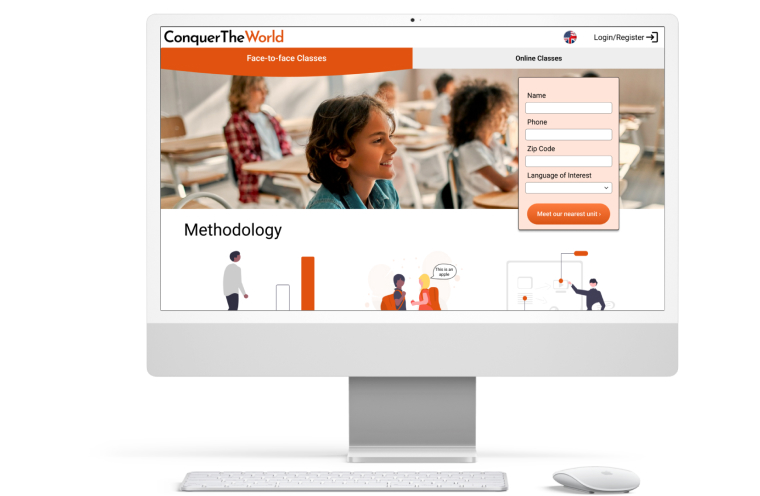
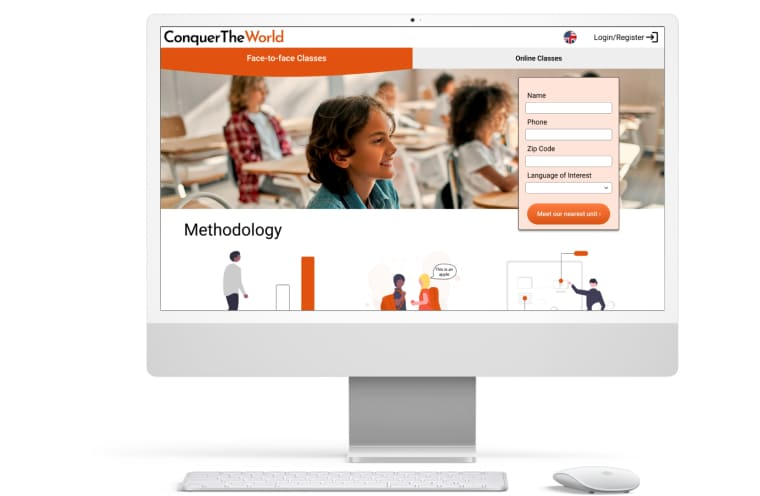
optmized images and updated css

diff --git a/style.min.css b/style.min.css
@@ -1,0 +1,1 @@
+a,abbr,acronym,address,applet,article,aside,audio,b,big,blockquote,body,canvas,caption,center,cite,code,dd,del,details,dfn,div,dl,dt,em,embed,fieldset,figcaption,figure,footer,form,h1,h2,h3,h4,h5,h6,header,hgroup,html,i,iframe,img,ins,kbd,label,legend,li,mark,menu,nav,object,ol,output,p,pre,q,ruby,s,samp,section,small,span,strike,strong,sub,summary,sup,table,tbody,td,tfoot,th,thead,time,tr,tt,u,ul,var,video{margin:0;padding:0;border:0;font-size:100%;font:inherit;vertical-align:baseline;text-decoration:none;color:#000}:root{--C1:#ffffff;--C2:#cccccc;--C3:#5b5b5b;--C4:#424242;--C5:#212121;--C6:#000000;--B1:#030423;--B2:#003366;--B3:#0047ab;--DG1:linear-gradient(180deg, #003366 0%, #030423 100%)}html{font-family:Raleway;font-style:normal;font-weight:600;font-size:1rem}h1{font-size:4rem}h2{font-size:2.25rem}.container{max-width:1600px;margin-left:auto;margin-right:auto}nav{display:flex;flex-wrap:wrap;gap:60px;background-color:#036;padding:24px 0 24px 130px;box-shadow:0 4px 4px rgba(0,0,0,.25),0 2px 2px rgba(0,0,0,.5);position:fixed;top:0;width:100%;z-index:100}nav a{display:flex;flex-direction:row;gap:4px;align-items:center;position:relative}nav img{max-width:32px}nav p{color:#fff}.indicator{position:absolute;bottom:0;left:0;width:0;height:2px;background-color:#fff;transition:width .3s ease}@media (max-width:900px){nav{padding-left:0;justify-content:center}}@media (max-width:700px){nav{gap:20px}}.home{background-image:url(../Images/Background\ -\ Home.jpg);background-repeat:no-repeat;display:grid;grid-template-columns:1fr 1fr;grid-template-rows:auto auto auto;background-size:cover;margin-top:120px;margin-bottom:240px;background-clip:border-box;background-position:center}.home h1{background-color:var(--C1);margin:120px 0 20px 130px;padding:15px 40px 15px 0;max-width:fit-content}.home p{font-size:1.5rem;margin-left:130px;grid-column:1}#animated-text{color:var(--B2);white-space:nowrap;overflow:hidden;border-right:2px solid #000;animation:typing-animation 2s steps(40) 1s forwards,deleting-animation 1s steps(40) 4s forwards}.home img{margin-top:80px;margin-right:240px;max-width:460px;grid-column:2;grid-row:1/-1;justify-self:end}@media (max-width:900px){.home{background:0 0;grid-template-columns:auto}.home img{display:none}.home h1{margin-left:0;text-align:center;justify-self:center;padding:15px 20px}.home p{margin-left:0;text-align:center;justify-self:center}}.about{display:grid;grid-template-columns:1fr 2fr;margin-bottom:160px}.about img{max-width:380px;grid-row:2/10}.about h1{text-align:center;grid-column:1/-1;margin-bottom:32px}.about-menu{display:flex;gap:24px;margin-bottom:36px}.about-form label{border-radius:100px;padding:10px 20px;border:2px solid var(--B2);display:inline-block;margin-bottom:36px;cursor:pointer;margin-right:24px}.about-text{display:none}#story:checked+label,#study:checked+label,#work:checked+label{background:var(--DG1);color:var(--C1)}#story:checked~#about-story,#work:checked~#about-work{display:block}#study:checked~#about-study{display:grid;grid-template-columns:1fr 1fr}.about-form input{opacity:0;position:absolute;pointer-events:none}#about-story p{line-height:1.5;max-width:80ch;font-weight:500;margin-bottom:16px}.about a{margin-top:64px;border-radius:100px;padding:10px 20px;background:var(--DG1);color:var(--C1);max-width:fit-content;justify-self:center}h2{font-weight:700;font-size:1.375rem;margin-bottom:12px}.cargo{font-weight:500;font-size:1.25rem;margin-bottom:8px}.skills{list-style:none;display:flex;gap:16px;flex-wrap:wrap}.skills li{font-size:1rem;font-weight:500;color:var(--C1);background:var(--B3);padding:10px 20px;border-radius:100px;text-align:center;margin-bottom:20px}.bot28{margin-bottom:8px}.cursos{list-style:none;font-weight:500;font-size:1.25rem}.cursos li,.cursos p{margin-bottom:20px}.col-1{grid-column:1;grid-row:1/10}.col-2{grid-column:2}.about-text{position:relative}.about-text::before{content:"";display:block;width:100%;max-width:800px;height:1.5px;background-color:var(--B2);box-shadow:0 2px 2px rgba(0,0,0,.5),0 4px 4px rgba(0,0,0,.25);position:absolute;left:0;top:-20px}@media (max-width:1000px){.about img{display:none}.about{display:grid;grid-template-columns:1fr;margin:0 60px}.about-text{margin-bottom:40px}#study:checked~#about-study{display:block}.study-type{margin-top:36px}}@media (max-width:700px){.about h1{font-size:3.5rem}.about-form label:first-of-type::after{content:"";display:none}}.case-studies h1{text-align:center;margin-bottom:80px}.images li{list-style:none}.images .image-container{position:relative}.images img{max-width:380px;border-radius:30px;border:2px solid var(--B1)}.images .overlay{position:absolute;top:0;left:0;width:100%;height:98%;background-color:rgba(0,0,0,.75);display:flex;flex-wrap:wrap;align-items:center;justify-content:center;opacity:0;transition:opacity .3s ease;pointer-events:none;border-radius:30px}.images .overlay.active{opacity:1}.images .text{text-align:center;color:var(--C1)}.images .title{font-size:2rem;font-weight:600;margin-bottom:8px;color:var(--C1)}.images .category{font-size:1rem;font-weight:600;color:var(--C1)}.images{display:flex;flex-wrap:wrap;gap:40px;justify-content:center}.contact{display:block;margin:64px auto 240px auto;border-radius:100px;padding:10px 20px;background:var(--DG1);color:var(--C1);max-width:fit-content;text-align:center}@media (max-width:600px){.images img{max-width:280px;border-radius:20px;border:2px solid var(--B1)}.images{gap:20px}.case-studies h1{margin-top:60px;margin-bottom:40px;font-size:3.5rem}.images .overlay{border-radius:20px}.images .title{font-size:1.75rem}}.projects{max-width:1200px;margin-right:auto;margin-left:auto;margin-bottom:120px}.projects h1{text-align:center;margin-bottom:80px}.projects-images img{max-width:280px}.projects-images{display:flex;flex-wrap:wrap;flex-direction:row;gap:20px;justify-content:center}.project{position:relative;overflow:hidden}.project-info{position:absolute;bottom:0;left:0;width:100%;height:50%;background-color:var(--C1);transform:translateY(100%);transition:transform .5s;display:flex;flex-direction:column;align-items:center;justify-content:center;padding:10px;text-align:center;opacity:0;transition:transform .5s,opacity .5s}.project:hover .project-info{transform:translateY(0);opacity:1}.project-wrapper:hover .project-info{transform:translateY(100%);opacity:0}.project-wrapper:hover .project:hover .project-info{transform:translateY(0);opacity:1}@media (max-width:600px){.projects-images img{max-width:150px;gap:10px}.projects h1{margin-bottom:60px;font-size:3.5rem}.project-info h2{font-size:.8rem}.project-info p{font-size:.75rem}.project-info{transform:translateY(0);height:30%;opacity:.75;width:100%;margin-left:-5px}}.contact-request h1{text-align:center;margin-bottom:60px}.contact-container{display:grid;grid-template-columns:1fr 5fr;margin:0 200px;gap:40px;margin-bottom:80px}.contact-container h2{text-align:right;text-transform:uppercase;color:rgba(0,51,102,.25);font-weight:900;font-size:2.25rem;align-self:center}.contact-form{background-color:var(--B2);border-radius:50px;display:grid;padding:32px 80px;grid-template-columns:1fr 1fr;gap:0 100px}.contact-form label{margin-bottom:16px;color:var(--C1);font-size:1rem;display:block;grid-column:1}.contact-form input{margin-bottom:28px;border-color:var(--C1);border-radius:50px;background:rgba(255,255,255,.05);min-height:32px;display:block;grid-column:1;width:100%;font-size:1rem;color:#fff;padding:0 16px}.contact-form textarea{border-color:var(--C1);border-radius:30px;background:rgba(255,255,255,.05);height:180px;width:100%;grid-column:2;grid-row:2/5;font-size:1rem;color:#fff;padding:8px 16px}.small{color:var(--C1);font-size:.625rem}.contact-form input:focus,.contact-form textarea:focus{outline:0;border-color:var(--C2);box-shadow:0 0 4px var(--C2)}label.message{grid-column:2;grid-row:1}.send-contact{display:flex;gap:8px;border-radius:20px;background:#fff;justify-content:center;align-items:center;max-width:fit-content;grid-column:2;grid-row:6;padding:10px 20px;justify-self:center}input.website{margin-bottom:0}.send-contact p{font-size:1rem;font-weight:700;text-transform:uppercase;color:var(--B2)}@media (max-width:1200px){.contact-container{display:block}.contact-container h2{text-align:center;font-size:2rem}.contact-form{display:block}input.website{margin-bottom:28px}.send-contact{margin:28px auto 0 auto}}@media (max-width:950px){.contact-container{margin:0 120px 60px 120px}@media (max-width:700px){.contact-container{margin:0 80px 60px 80px}.contact-form{padding:32px 40px}.contact-request h1{font-size:3.5rem;margin-bottom:40px}.contact-request h2{font-size:1.5rem;margin-bottom:32px}}@media (max-width:500px){.contact-container{margin:0 40px 60px 40px}}}footer{background-color:var(--B1);display:flex;justify-content:space-between}footer p{color:var(--C1);font-weight:500}footer a{display:flex;flex-direction:row;gap:8px;padding:10px 0;margin:0 130px;align-items:center;max-width:fit-content}footer a:first-child{padding-top:20px}footer a:last-of-type{padding-bottom:20px}footer img{max-width:32px}.rights{align-self:end;margin-right:130px;padding:10px 0}@media (max-width:900px){.rights{margin-right:60px}footer a{margin:0 60px}}@media (max-width:900px){footer{display:block}.rights{margin-right:0;margin-left:60px;font-size:.75rem}}

diff --git a/index.html b/index.html
@@ -6,7 +6,7 @@
   <meta name="viewport" content="width=device-width, initial-scale=1.0">
   <title>Paolo Vinicios | UI/UX Designer</title>
   <meta name="description" content="Hi, my name is Paolo Vinicios, and this is my portfolio as a UX/UI Designer">
-  <link rel="stylesheet" href="./CSS/style.css">
+  <link rel="stylesheet" href="./style.min.css">
   <link rel="shortcut icon" href="./SVG/Favicon.ico" type="image/x-icon">
   <link rel="preconnect" href="https://fonts.googleapis.com">
   <link rel="preconnect" href="https://fonts.gstatic.com" crossorigin>
